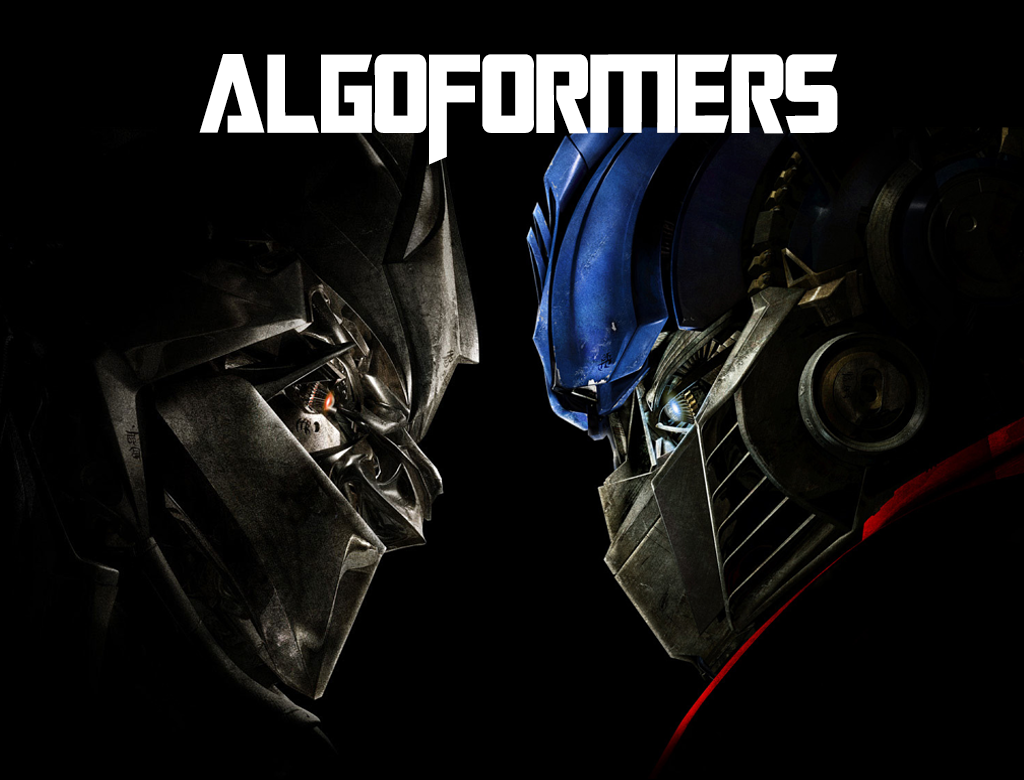
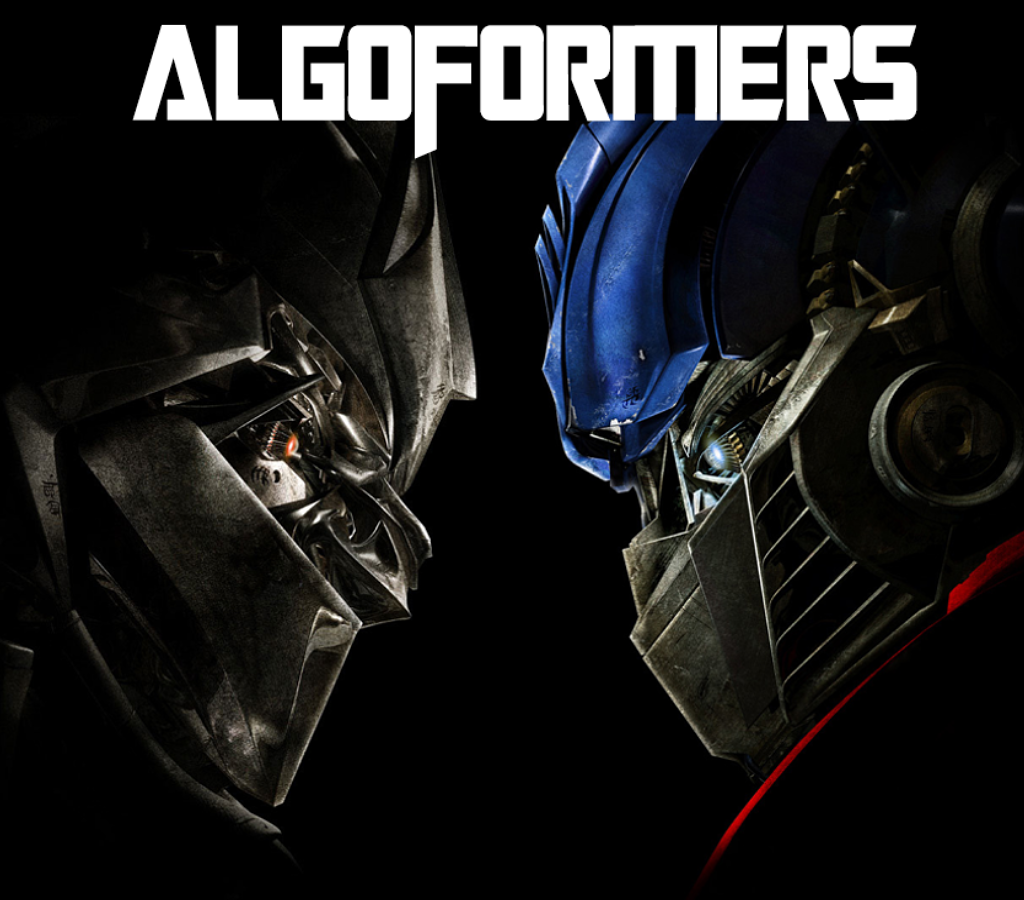
Signed-off-by: Rodrigo <rodrigoolivera27@yahoo.com.ar>

diff --git a/src/fiuba/algo3/algoformers/view2/VistaMenuPrincipal/MenuPrincipal.java b/src/fiuba/algo3/algoformers/view2/VistaMenuPrincipal/MenuPrincipal.java
@@ -1,9 +1,11 @@
 package fiuba.algo3.algoformers.view2.VistaMenuPrincipal;
 
 import fiuba.algo3.algoformers.view2.Ventana;
+import fiuba.algo3.algoformers.view2.VistaJuego.Imagenes.ImageHelper;
 import javafx.geometry.Pos;
 import javafx.scene.Scene;
 import javafx.scene.control.Button;
+import javafx.scene.layout.Background;
 import javafx.scene.layout.BorderPane;
 import javafx.scene.layout.HBox;
 
@@ -21,6 +23,7 @@ public class MenuPrincipal implements Ventana {
 
         border = new BorderPane();
 
+        border.setBackground(new Background(new ImageHelper().getImagen("pantallaprincipalbg")));
         Button pausa = new Button("PAUSA");
         Button continuar = new Button("CONTINUAR");
 
